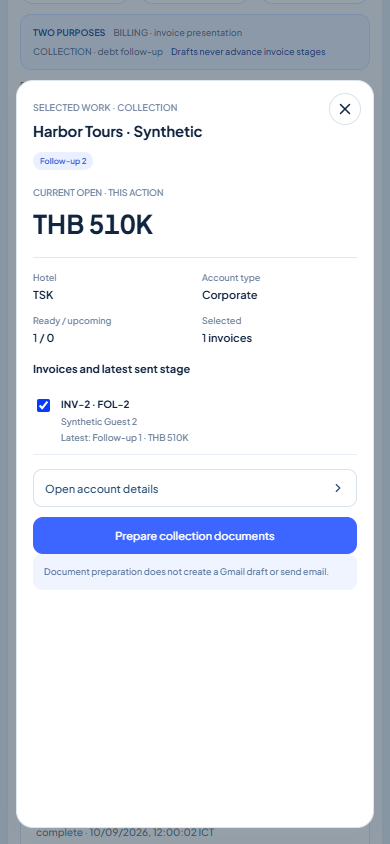
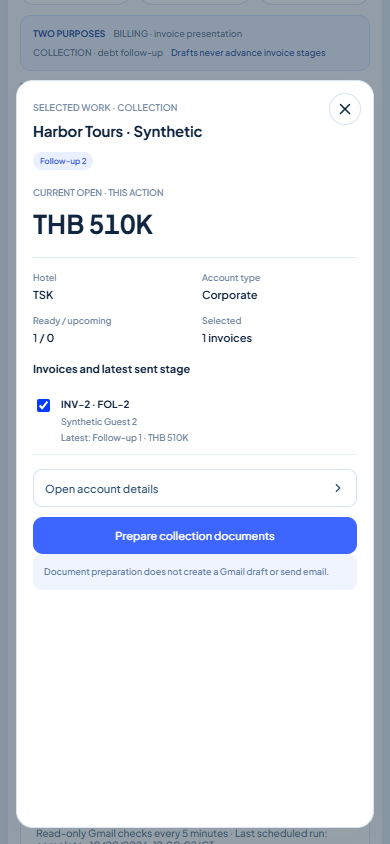
Refresh queue after verified mail and clarify positive invoice totals

diff --git a/src/CollectionQueue.tsx b/src/CollectionQueue.tsx
@@ -12,9 +12,11 @@ const priority:Record<string,number>={'Urgent':0,'Needs review':1,'Final':2,'Fol
 async function read<T>(path:string,token:string,init:RequestInit={}):Promise<T>{const r=await fetch(path,{...init,headers:{Authorization:`Bearer ${token}`,...init.headers}});if(!r.ok)throw Error('Queue service unavailable');return r.json() as Promise<T>;}
 export default function CollectionQueue({token,hotel,accounts,params,update,onOpen,onPrepare}:{token:string;hotel:string;accounts:Account[];params:URLSearchParams;update:(key:string,value:string)=>void;onOpen:(account:Account)=>void;onPrepare:(selection:DocumentSelection)=>void}){
  const [data,setData]=useState<QueueRow[]|null>(null),[error,setError]=useState(''),[loading,setLoading]=useState(true),[version,setVersion]=useState(0),[sync,setSync]=useState<ReconcileStatus|null>(null),[syncBusy,setSyncBusy]=useState(false),[syncError,setSyncError]=useState(''),[drawer,setDrawer]=useState(false),[selected,setSelected]=useState<Set<string>>(new Set()),[today,setToday]=useState(thaiToday);
+ const syncMarker=useRef('');
  const auth=useRef(token);auth.current=token;
- useEffect(()=>{let current=true;const controller=new AbortController();setLoading(true);setError('');void read<{rows:QueueRow[]}>('/api/collection-queue',auth.current,{signal:controller.signal}).then(r=>{if(!Array.isArray(r.rows))throw Error();if(current){setData(r.rows.map(row=>({...row,account_name:row.account_name??'Account metadata unavailable',account_type:row.account_type??'Type unavailable'})));setLoading(false);}}).catch(()=>{if(current){setLoading(false);setError('Collection data is unavailable. No replacement data has been shown.');}});void read<ReconcileStatus>('/api/mail-reconciliation',auth.current,{signal:controller.signal}).then(s=>{if(current)setSync(s);}).catch(()=>{if(current)setSyncError('Sent-check status unavailable.');});return()=>{current=false;controller.abort();};},[version]);
+ useEffect(()=>{let current=true;const controller=new AbortController();setLoading(true);setError('');void read<{rows:QueueRow[]}>('/api/collection-queue',auth.current,{signal:controller.signal}).then(r=>{if(!Array.isArray(r.rows))throw Error();if(current){setData(r.rows.map(row=>({...row,account_name:row.account_name??'Account metadata unavailable',account_type:row.account_type??'Type unavailable'})));setLoading(false);}}).catch(()=>{if(current){setLoading(false);setError('Collection data is unavailable. No replacement data has been shown.');}});void read<ReconcileStatus>('/api/mail-reconciliation',auth.current,{signal:controller.signal}).then(s=>{if(current){setSync(s);syncMarker.current=s.last?.finished_at??'';}}).catch(()=>{if(current)setSyncError('Sent-check status unavailable.');});return()=>{current=false;controller.abort();};},[version]);
  useEffect(()=>{const timer=setInterval(()=>setToday(thaiToday()),60000);return()=>clearInterval(timer);},[]);
+ useEffect(()=>{let alive=true;const poll=async()=>{if(document.visibilityState==='hidden')return;try{const s=await read<ReconcileStatus>('/api/mail-reconciliation',auth.current);if(!alive)return;setSync(s);setSyncError('');if(s.last?.verified&&s.last.finished_at&&s.last.finished_at!==syncMarker.current)setVersion(n=>n+1);syncMarker.current=s.last?.finished_at??'';}catch{if(alive)setSyncError('Sent-check status unavailable.');}};const timer=setInterval(poll,60000);document.addEventListener('visibilitychange',poll);return()=>{alive=false;clearInterval(timer);document.removeEventListener('visibilitychange',poll);};},[]);
  const type=params.get('qtype')??'All',account=params.get('qaccount')??'All',stage=params.get('qstage')??'All',purpose=params.get('qpurpose')??'All',when=params.get('qwhen')??'All',search=params.get('qsearch')??'',sort=params.get('qsort')??'priority',dir=params.get('qdir')??'asc';
  const allWork=useMemo(()=>{return (data??[]).flatMap(r=>{const action=nextCollectionAction(r,today);return action?[{...r,action}]:[];});},[data,today]);
  const base=allWork.filter(r=>(hotel==='All'||r.hotel===hotel)&&(type==='All'||r.account_type===type)&&(account==='All'||`${r.hotel}:${r.account_id}`===account)&&`${r.account_name} ${r.guest} ${r.invoice_no??''} ${r.folio_no??''}`.toLowerCase().includes(search.toLowerCase()));
@@ -29,13 +31,13 @@ export default function CollectionQueue({token,hotel,accounts,params,update,onOp
  function sorting(key:string){update('qdir',sort===key&&dir==='asc'?'desc':'asc');update('qsort',key);}
  function openAccount(){if(!focused)return;const row=accounts.find(a=>a.hotel===focused.hotel&&a.id===focused.accountId);if(row)onOpen(row);}
  async function checkMail(){setSyncBusy(true);setSyncError('');try{await read('/api/mail-reconciliation',auth.current,{method:'POST'});setSync(await read<ReconcileStatus>('/api/mail-reconciliation',auth.current));setVersion(n=>n+1);}catch{setSyncError('Sent check could not start. No email was sent.');}finally{setSyncBusy(false);}}
- return <main className="page collection-page"><div className="queue-title"><div><h1>Billing & Collection Queue</h1><p>Latest sent stage and next action remain separate · Calendar dates in Thailand</p></div><button onClick={()=>setVersion(n=>n+1)} disabled={loading}><RefreshCw size={14}/>{loading?'Loading…':'Reload queue'}</button></div>
+ return <main className="page collection-page"><div className="queue-title"><div><h1>Billing & Collection Queue</h1><p>Positive open invoices · Latest sent stage and next action remain separate</p></div><button onClick={()=>setVersion(n=>n+1)} disabled={loading}><RefreshCw size={14}/>{loading?'Loading…':'Reload queue'}</button></div>
  {error&&<p className="error-message" role="alert">{error}{data?' Showing the last successfully loaded queue.':''}</p>}
  <div className="queue-metrics">{tiles.map((tile,i)=>{const rows=base.filter(tile.test);return <button key={tile.label} className={i===0?'billing-metric':''} onClick={()=>tileFilter(tile.filter)} disabled={!data}><small>{tile.label}</small><strong>{data?rows.length:'—'}</strong><span>{data?`${new Set(rows.map(r=>r.hotel+':'+r.account_id)).size} accounts · ${money(rows.reduce((n,r)=>n+Math.round(r.open*100),0)/100)}`:'Waiting for source data'}</span></button>;})}</div>
  <div className="queue-purpose-note"><strong>TWO PURPOSES</strong><span>BILLING · invoice presentation</span><span>COLLECTION · debt follow-up</span><b>Drafts never advance invoice stages</b></div>
  <div className="queue-filters"><label>Purpose<select aria-label="Queue purpose" value={purpose} onChange={e=>update('qpurpose',e.target.value)}>{['All','Billing','Collection'].map(s=><option key={s}>{s}</option>)}</select></label><label>Account type<select aria-label="Queue account type" value={type} onChange={e=>update('qtype',e.target.value)}><option>All</option>{[...new Set((data??[]).map(r=>r.account_type))].sort().map(s=><option key={s}>{s}</option>)}</select></label><label>Account<select aria-label="Queue account" value={account} onChange={e=>update('qaccount',e.target.value)}><option>All</option>{[...new Map((data??[]).filter(r=>hotel==='All'||r.hotel===hotel).map(r=>[`${r.hotel}:${r.account_id}`,r])).entries()].sort((a,b)=>a[1].account_name.localeCompare(b[1].account_name)).map(([key,r])=><option key={key} value={key}>{r.hotel} · {r.account_name}</option>)}</select></label><label>Next action<select aria-label="Queue stage" value={stage} onChange={e=>update('qstage',e.target.value)}><option>All</option><option>Collection due</option>{actionStages.map(s=><option key={s} value={s}>{stageLabel(s)}</option>)}</select></label><label>Latest sent<select aria-label="Queue latest sent stage" value={latestFilter} onChange={e=>update('qsent',e.target.value)}><option>All</option>{['No reminders sent','Billed','Friendly','Follow 1','Follow 2','Follow 3','Final'].map(s=><option key={s} value={s}>{stageLabel(s)} · {base.filter(r=>r.action.latest===s).length}</option>)}</select></label><label>When<select aria-label="Queue timing" value={when} onChange={e=>update('qwhen',e.target.value)}>{['All','Ready','Upcoming'].map(s=><option key={s}>{s}</option>)}</select></label><input type="search" aria-label="Search collection queue" placeholder="Search account / guest / invoice" value={search} onChange={e=>update('qsearch',e.target.value)}/><button onClick={()=>{for(const k of ['qtype','qaccount','qstage','qpurpose','qwhen','qsearch','qsent'])update(k,'');}}>Clear filters</button></div>
- <div className="queue-layout"><section className="panel queue-work"><header><h2>Prioritized work <small>{groups.length} account / action groups · {visible.length} invoices</small></h2><span>KAT <i/> TSK</span></header><div className="queue-table-scroll"><table><thead><tr>{[['priority','Priority'],['hotel','Hotel'],['purpose','Purpose'],['name','Account'],['stage','Next action'],['count','Open invoices'],['amount','Open amount'],['date','Action date']].map(([key,label])=><th key={key}><button onClick={()=>sorting(key)}>{label}{sort===key?(dir==='asc'?<ArrowUp size={10}/>:<ArrowDown size={10}/>):null}</button></th>)}</tr></thead><tbody>{groups.map((g,index)=><tr key={g.key} className={focused?.key===g.key?'focused':''} onClick={()=>{update('qfocus',g.key);setDrawer(true);}}><td><span className="queue-priority">{String(index+1).padStart(2,'0')}</span></td><td><span className={`queue-hotel ${g.hotel.toLowerCase()}`}>{g.hotel}</span></td><td><span className={`queue-purpose ${g.purpose.toLowerCase()}`}>{g.purpose}</span></td><td><button className="queue-account" onClick={e=>{e.stopPropagation();update('qfocus',g.key);setDrawer(true);}}>{g.name}</button><small>{g.type}</small></td><td><span className={g.stage==='Urgent'?'urgent-text':''}>{stageLabel(g.stage)}</span></td><td>{g.rows.length}</td><td><strong>{money(g.amount)}</strong></td><td>{g.date??'Needs attention'}<small>{g.ready?`${g.ready} ready`:'Upcoming'}</small></td></tr>)}</tbody></table>{!groups.length&&<div className="queue-empty"><strong>{loading?'Loading invoice work…':error?'Queue unavailable':'No work matches these filters'}</strong><p>{!loading&&!error?'All matching positive open invoices are included. Try another stage or timing filter.':'Verified data is required to show this queue.'}</p></div>}</div><footer>{(data??[]).filter(r=>r.collection_role==='child'&&(hotel==='All'||r.hotel===hotel)).length} child invoice rows are represented by their parent and are not collected separately.</footer></section>
+ <div className="queue-layout"><section className="panel queue-work"><header><h2>Prioritized work <small>{groups.length} account / action groups · {visible.length} invoices</small></h2><span>KAT <i/> TSK</span></header><div className="queue-table-scroll"><table><thead><tr>{[['priority','Priority'],['hotel','Hotel'],['purpose','Purpose'],['name','Account'],['stage','Next action'],['count','Open invoices'],['amount','Open amount'],['date','Action date']].map(([key,label])=><th key={key}><button onClick={()=>sorting(key)}>{label}{sort===key?(dir==='asc'?<ArrowUp size={10}/>:<ArrowDown size={10}/>):null}</button></th>)}</tr></thead><tbody>{groups.map((g,index)=><tr key={g.key} className={focused?.key===g.key?'focused':''} onClick={()=>{update('qfocus',g.key);setDrawer(true);}}><td><span className="queue-priority">{String(index+1).padStart(2,'0')}</span></td><td><span className={`queue-hotel ${g.hotel.toLowerCase()}`}>{g.hotel}</span></td><td><span className={`queue-purpose ${g.purpose.toLowerCase()}`}>{g.purpose}</span></td><td><button className="queue-account" onClick={e=>{e.stopPropagation();update('qfocus',g.key);setDrawer(true);}}>{g.name}</button><small>{g.type}</small></td><td><span className={g.stage==='Urgent'?'urgent-text':''}>{stageLabel(g.stage)}</span></td><td>{g.rows.length}</td><td><strong>{money(g.amount)}</strong></td><td>{g.date??'Needs attention'}<small>{g.ready?`${g.ready} ready`:'Upcoming'}</small></td></tr>)}</tbody></table>{!groups.length&&<div className="queue-empty"><strong>{loading?'Loading invoice work…':error?'Queue unavailable':'No work matches these filters'}</strong><p>{!loading&&!error?'All matching positive open invoices are included. Try another stage or timing filter.':'Verified data is required to show this queue.'}</p></div>}</div><footer>Amounts exclude negative credit balances shown in Account Detail. {(data??[]).filter(r=>r.collection_role==='child'&&(hotel==='All'||r.hotel===hotel)).length} child invoice rows are represented by their parent and are not collected separately.</footer></section>
  <aside className={`panel queue-detail ${drawer?'open':''}`}><button className="queue-close" aria-label="Close queue details" onClick={()=>setDrawer(false)}><X size={18}/></button>{focused?<><small>SELECTED WORK · {focused.purpose.toUpperCase()}</small><h2>{focused.name}</h2><span className="badge">{stageLabel(focused.stage)}</span><div className="queue-detail-balance"><small>CURRENT OPEN · THIS ACTION</small><strong>{money(focused.amount)}</strong></div><dl><div><dt>Hotel</dt><dd>{focused.hotel}</dd></div><div><dt>Account type</dt><dd>{focused.type}</dd></div><div><dt>Ready / upcoming</dt><dd>{focused.ready} / {focused.rows.length-focused.ready}</dd></div><div><dt>Selected</dt><dd>{scopedSelected.length} invoices</dd></div></dl><h3>Invoices and latest sent stage</h3><div className="queue-invoice-list">{focused.rows.map(r=><label key={r.id}><input type="checkbox" aria-label={`Queue select ${r.invoice_no??r.id}`} checked={selected.has(r.id)} disabled={!r.collection_selectable||r.verification_state!=='verified'} onChange={()=>setSelected(old=>{const next=new Set(old);if(next.has(r.id))next.delete(r.id);else next.add(r.id);return next;})}/><span><b>{r.invoice_no??'Invoice unavailable'} · {r.folio_no??'Folio unavailable'}</b><small>{r.guest}</small><small>Latest: {stageLabel(r.action.latest)} · {money(r.open)}</small>{r.action.reason&&<small className="queue-warning">{r.action.reason}</small>}</span></label>)}</div><button className="queue-account-open" onClick={openAccount}>Open account details <ChevronRight size={14}/></button>{!['Setup needed','Needs review'].includes(focused.stage)&&<button className="primary-button" disabled={!scopedSelected.length} onClick={()=>onPrepare({hotel:focused.hotel,accountId:focused.accountId,accountName:focused.name,ids:scopedSelected.map(r=>r.id),purpose:focused.stage==='Billing'?'billing':'collection'})}>Prepare {focused.stage==='Billing'?'billing':'collection'} documents</button>}<p className="queue-safety-note">Document preparation does not create a Gmail draft or send email.</p></>:<p>Choose a work row to review its invoices.</p>}</aside></div>{drawer&&<div className="queue-backdrop" onClick={()=>setDrawer(false)}/>}
- <section className="queue-sync"><div><strong>Sent status checks</strong><p>{sync?.enabled?`Read-only Gmail checks every ${sync.intervalMinutes} minutes`:'Scheduled checks are not enabled.'}{sync?.last?` · Last ${sync.last.trigger} run: ${sync.last.state} · ${new Date(sync.last.finished_at??sync.last.created_at).toLocaleString('en-GB',{timeZone:'Asia/Bangkok'})} ICT`:''}</p>{sync?.last&&<small>{sync.last.checked} checked · {sync.last.verified} verified · {sync.last.needs_review} require review · {sync.last.unavailable} unavailable</small>}{syncError&&<p role="alert">{syncError}</p>}</div><button disabled={syncBusy} onClick={checkMail}>{syncBusy?'Starting check…':'Check sent status now'}</button></section>
+ <section className="queue-sync"><div><strong>Sent status checks</strong><p>{sync===null?'Sent-check status unavailable.':sync.enabled?`Read-only Gmail checks every ${sync.intervalMinutes} minutes`:'Scheduled checks are not enabled.'}{sync?.last?` · Last ${sync.last.trigger} run: ${sync.last.state} · ${new Date(sync.last.finished_at??sync.last.created_at).toLocaleString('en-GB',{timeZone:'Asia/Bangkok'})} ICT`:''}</p>{sync?.last&&<small>{sync.last.checked} checked · {sync.last.verified} verified · {sync.last.needs_review} require review · {sync.last.unavailable} unavailable</small>}{syncError&&<p role="alert">{syncError}</p>}</div><button disabled={syncBusy} onClick={checkMail}>{syncBusy?'Starting check…':'Check sent status now'}</button></section>
  </main>;
 }

diff --git a/docs/COLLECTION_QUEUE_DESIGN.md b/docs/COLLECTION_QUEUE_DESIGN.md
@@ -1,0 +1,79 @@
+---
+name: Katathani AR Collection Queue
+description: Surface notes for the implemented billing and collection work queue
+colors:
+  surface: "#ffffff"
+  ink: "#102c4b"
+  billing: "#1bac9f"
+  selected-row: "#ecf4ff"
+  urgent: "#c42e4a"
+  quiet-field: "#edf3ff"
+  divider: "#e0e8f1"
+rounded:
+  metric: "14px"
+  action: "10px"
+spacing:
+  compact: "10px"
+  standard: "12px"
+  section: "18px"
+---
+
+# Collection Queue surface design
+
+## Overview
+
+This supplement records the built Collection Queue within the existing [Luminous AR interface](../DESIGN.md). Its visual authority is the [Collection Queue reference](../references/design/collection-queue-v2.png). Implementation evidence is [CollectionQueue.tsx](../src/CollectionQueue.tsx), [collection-queue.css](../src/collection-queue.css), and inherited [application styles](../src/styles.css).
+
+The reference's overview tiles, purpose explanation, filter row, broad work table, and narrow selected-work panel remain the composition. Current business requirements justify six actual categories: Billing due, Collection due, Urgent, Upcoming, Setup needed, and Needs review. Prototype Reply review, Payment unmatched, Escalated, and On hold tiles are not represented as working capabilities. The prototype round timeline is replaced by actionable invoice selection and each invoice's latest verified sent stage.
+
+Reviewed synthetic evidence: [1440 desktop](../evidence/collection-queue-1440.png), [1280 laptop](../evidence/collection-queue-1280.png), [390 mobile queue](../evidence/collection-queue-390.png), and [390 selected-work drawer](../evidence/collection-queue-390-drawer.png). These captures establish rendered composition; they do not establish live business totals or service enablement.
+
+## Colors
+
+White panels and navy content sit within the incumbent pale application canvas. Billing uses the reference's teal emphasis. The selected table row has a light blue field; property chips retain distinct KAT blue and TSK teal. Urgent action text is red. Setup and review purpose chips use amber to distinguish attention work from preparation.
+
+**The State Separation Rule.** Next action and latest sent stage remain distinct in both wording and placement. A selected or highlighted row does not imply an email has been sent.
+
+## Typography
+
+The queue inherits Plus Jakarta Sans. Its page title steps from 27px to 24px at the laptop breakpoint and 21px on mobile. The working table uses 11px text, with smaller column labels and supporting metadata. Metric values and monetary amounts use tabular numerals. Display labels use the confirmed full forms Follow-up 1, Follow-up 2, and Follow-up 3 rather than abbreviating them to internal stage names.
+
+Small supporting text describes the present implementation rather than setting an accessibility target for future surfaces.
+
+## Layout
+
+Six metric tiles span the desktop width above the purpose strip and filters. The main grid places a flexible table beside a 316px detail panel; the detail width reduces to 285px at 1280px. Table and detail overflow are independently scrollable. The lower Sent status checks panel remains separate from queued invoice work.
+
+At 1000px and below, metrics become a three-column grid and selected work becomes a right-side overlay drawer with a dimmed backdrop and visible close button. On small screens filters wrap into two columns, search remains available, and the table preserves its 760px minimum width through horizontal scrolling. The drawer holds invoice selection, account navigation, preparation, and the no-send explanation in one scrollable surface.
+
+**The Scope Rule.** A work row groups Hotel + Account + next action. Selecting another group clears invoice selection. The right panel identifies the hotel, account type, action balance, ready/upcoming counts, selected invoice count, and individual invoice context.
+
+## Elevation & Depth
+
+Fine borders and pale tonal fields separate panels and table rows. The mobile drawer uses a translucent backdrop for separation; its content retains the same white surface and restrained rounded shape as desktop detail. No new decorative material or imagery is introduced.
+
+## Shapes
+
+Overview tiles use gently rounded corners. Filter controls are compact rounded fields. Property and purpose chips are smaller rounded rectangles. Priority markers are circular counters. Actions retain the application's blue primary and outlined secondary treatments. Lucide icons provide reload, sorting, account navigation, and drawer closing.
+
+## Components
+
+- **Summary tiles:** each shows an invoice count, distinct account count, and THB total. They filter queue work. Collection due excludes Urgent in both counting and its explicit Next action filter; Urgent remains separately accessible.
+- **Filters:** Purpose, Account type, Account, Next action, Latest sent, When, and search remain separately labeled. Latest sent describes completed sending evidence; Next action describes the work to perform. Clear filters resets these controls.
+- **Prioritized table:** columns expose priority, hotel, purpose, account, next action, open invoice count, open amount, and action date. Column headings support sorting. Account buttons and row selection open the corresponding detail. Child invoice handling is explained beneath the table instead of implying separate collection work.
+- **Selected work:** invoice checkboxes show invoice/folio identity, guest context, latest sent stage, and open balance. Unverified or nonselectable rows cannot be selected. Setup needed and Needs review omit the preparation action; actionable groups require invoice selection before preparation.
+- **Preparation:** a blue button names billing or collection document preparation explicitly. The accompanying copy states that this action does not create a Gmail draft or send email.
+- **Sent status checks:** scheduling and latest-run information come from service status. A manual Check sent status now action is visually separate from document preparation and does not act as a send button.
+- **States:** loading, unavailable source data, retained previously loaded data, empty filtered results, disabled actions, and keyboard focus have explicit treatments. No replacement business data is invented after a service failure.
+
+## Do's and Don'ts
+
+- Do preserve the overview/filter/table/detail reading order and original reference.
+- Do keep summary counts and their drilldown population aligned.
+- Do keep Hotel + Account boundaries and next-action/latest-sent distinctions visible.
+- Do verify a selected mobile drawer as well as the initial mobile queue.
+- Don't substitute prototype reply, payment, or hold categories for implemented business state.
+- Don't present document preparation or read-only sent checks as sending email.
+- Don't promote screenshot timing artifacts or one-off compact labels into global design rules.
+
+This is a surface-only record; it does not replace the global design file or regenerate a global sidecar.

diff --git a/docs/DECISIONS_AND_OPEN_ITEMS.md b/docs/DECISIONS_AND_OPEN_ITEMS.md
@@ -2,6 +2,8 @@
 
 ## วิธีอ่าน
 
+ยืนยัน 10 กันยายน 2026: ใช้คำเต็ม **Follow-up 1, Follow-up 2, Follow-up 3** บนหน้าจอ คิวงาน และหน้าส่งอีเมล การเปลี่ยนชื่อแสดงผลไม่เขียนทับค่าประวัติเดิมในฐานข้อมูล
+
 คำยืนยันล่าสุดเพิ่มเติม: บิลค้างเดิมให้เริ่มต้น **Not billed / No reminders sent** และเจ้าของแก้ประวัติย้อนหลังภายหลังได้ เป็น default ที่เจ้าของเลือก ไม่ใช่หลักฐานจาก OPERA ไม่สร้างวันที่วางบิล/วันที่ส่งหรือ actual-send events สมมติ และไม่ถือว่า Billing Required ถูกตั้งค่าแล้วเพียงเพราะสถานะเป็น Not billed
 
 ยืนยันล่าสุด: Credit Term ในอดีตตรงกับปัจจุบัน และเจ้าของให้ทั้ง Credit Term และ Billing Required/Not Required มีผลกับบิลค้างเดิมด้วย การตั้งครั้งแรกครอบคลุมบิลเก่าที่ยังไม่มีกฎและบิลใหม่ ไม่เดาวันที่วางบิลครั้งแรกหรือรอบทวงเดิม; Required รอ actual first billing date, Not Required ใช้ OPERA base date + term การเปลี่ยน default ครั้งถัดไปไม่แก้ due/history ที่กำหนดไว้แล้วโดยอัตโนมัติ
